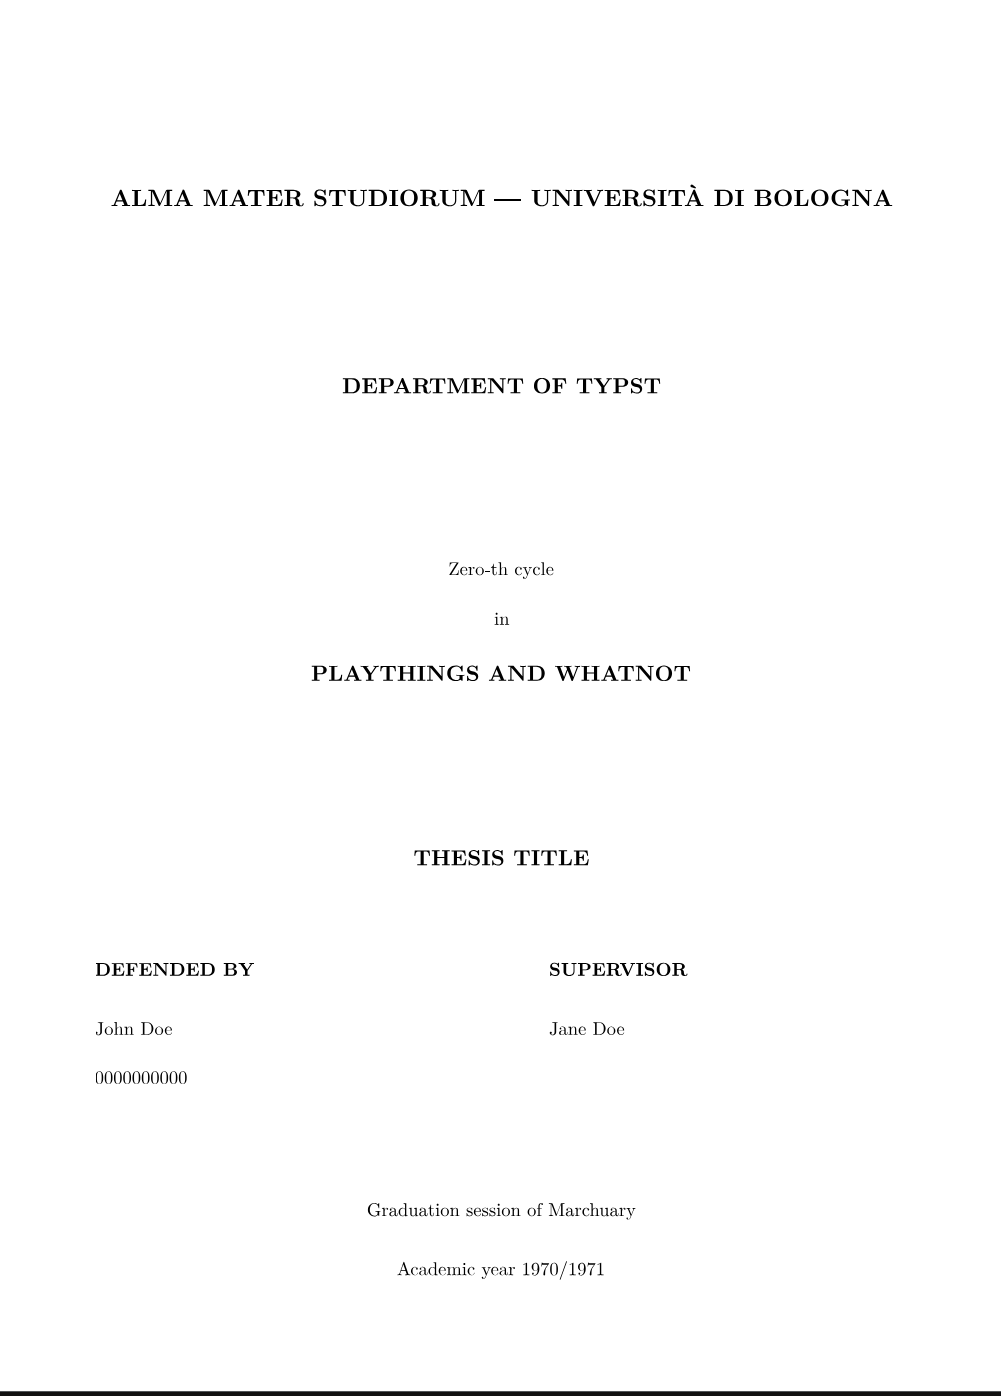
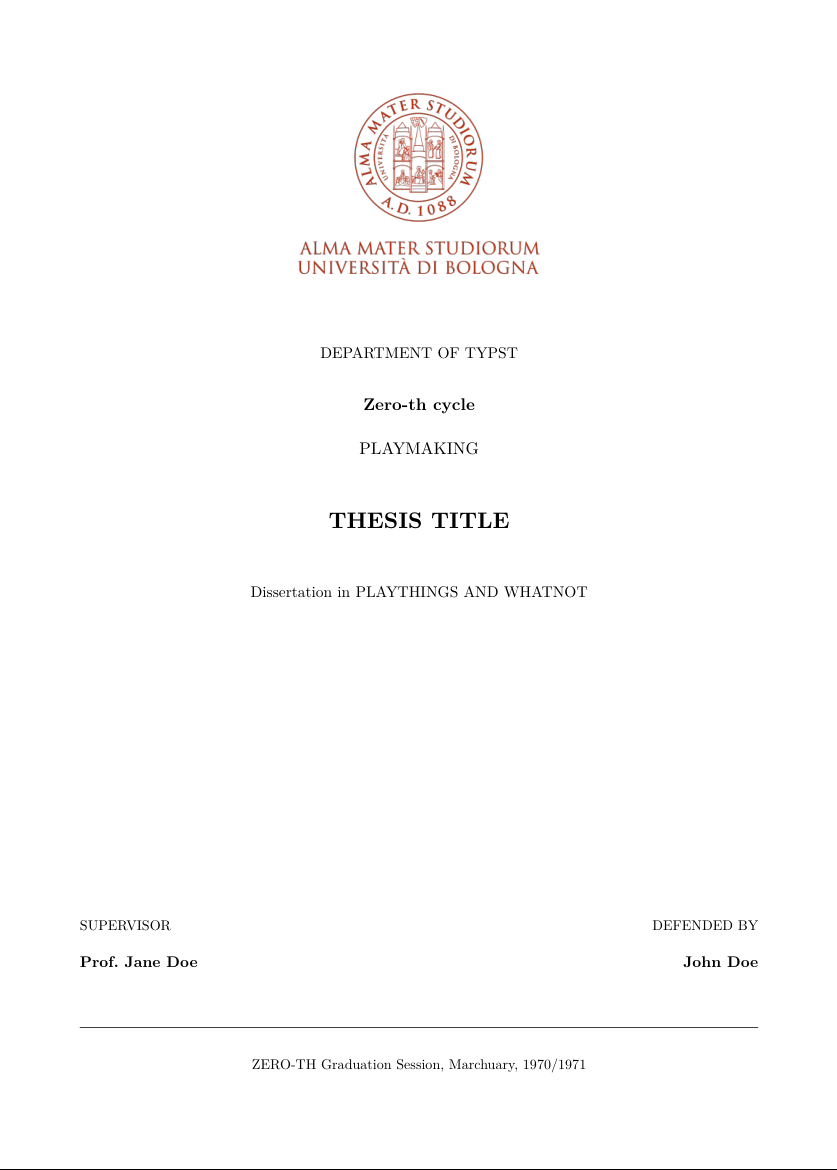
update

diff --git a/README.md b/README.md
@@ -49,6 +49,13 @@ can use `thesis-cover` directly:
 )
 ```
 
+
+## Procuring the Logo
+
+I can't technically bundle the logo by default. It can be found [in this page](https://www.unibo.it/en/university/statute-standards-strategies-and-reports/image-identity-brand), or downloaded directly from [this link (which I found simply in the previous link)](https://www.unibo.it/en/images/copy_of_logo.jpg).
+
+Just pass the logo image as the logo argument, and it'll all work
+
 ## Configuration
 
 All parameters have what I think are sensible defaults and can be omitted if not
@@ -76,7 +83,7 @@ needed.
 | `font`                  | Body font                                                                       | `"New Computer Modern"`                          |
 | `cover-font`            | Cover page font (can differ from body)                                          | `"New Computer Modern"`                          |
 | `layout`                | Cover layout: `"logo"` (official UniBo style) or `"no-logo"` (Econ dept. style) | `"logo"`                                         |
-| `logo`                  | Path to logo image (e.g. `"unibo-logo.png"`); only used with `"logo"` layout    | `none`                                           |
+| `logo`                  | Logo content (e.g. `image("unibo-logo.png")`); only used with `"logo"` layout   | `none`                                           |
 | `locale`                | `"en"` or `"it"` (controls built-in label translations and lang option)         | `"en"`                                           |
 | `labels`                | Override the template's localised strings manually (see below)                  | `none`                                           |
 
